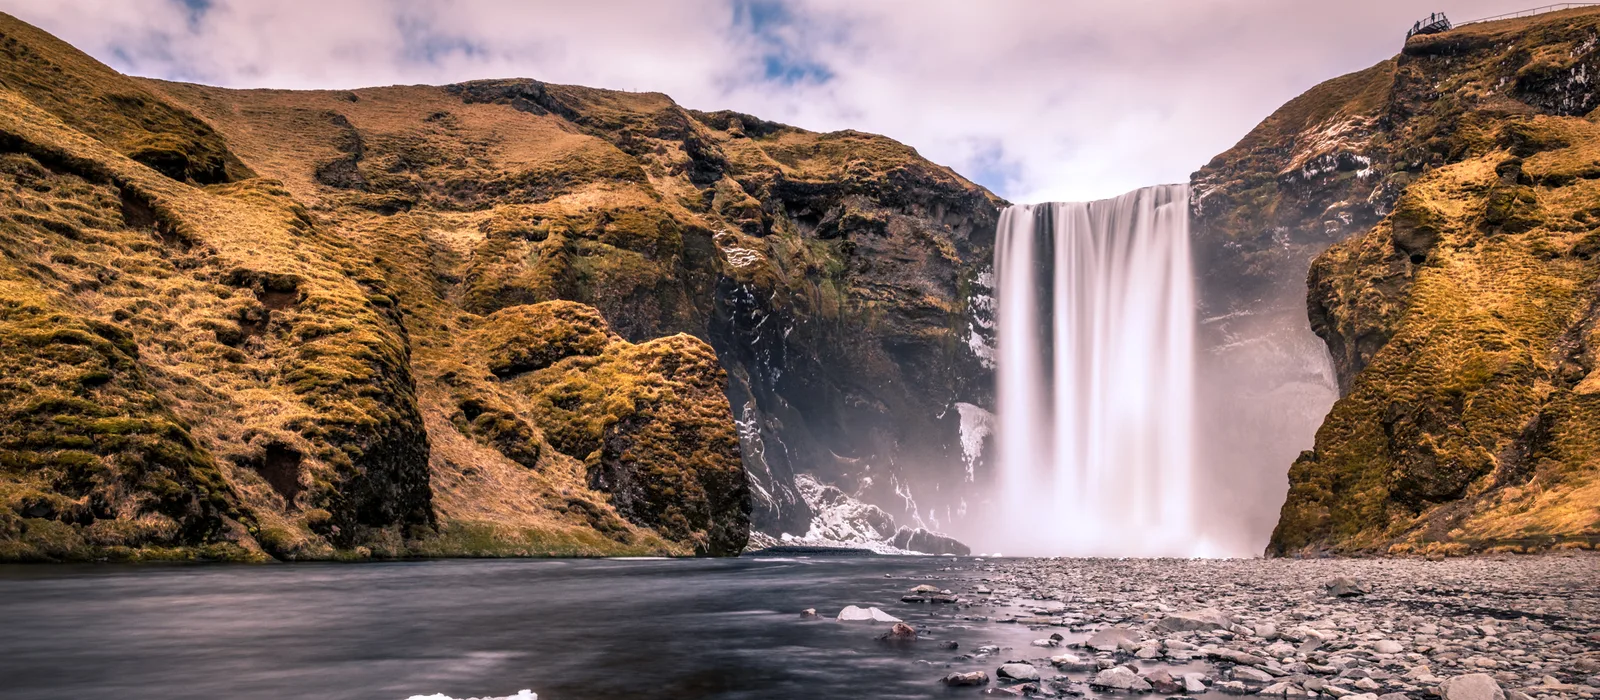
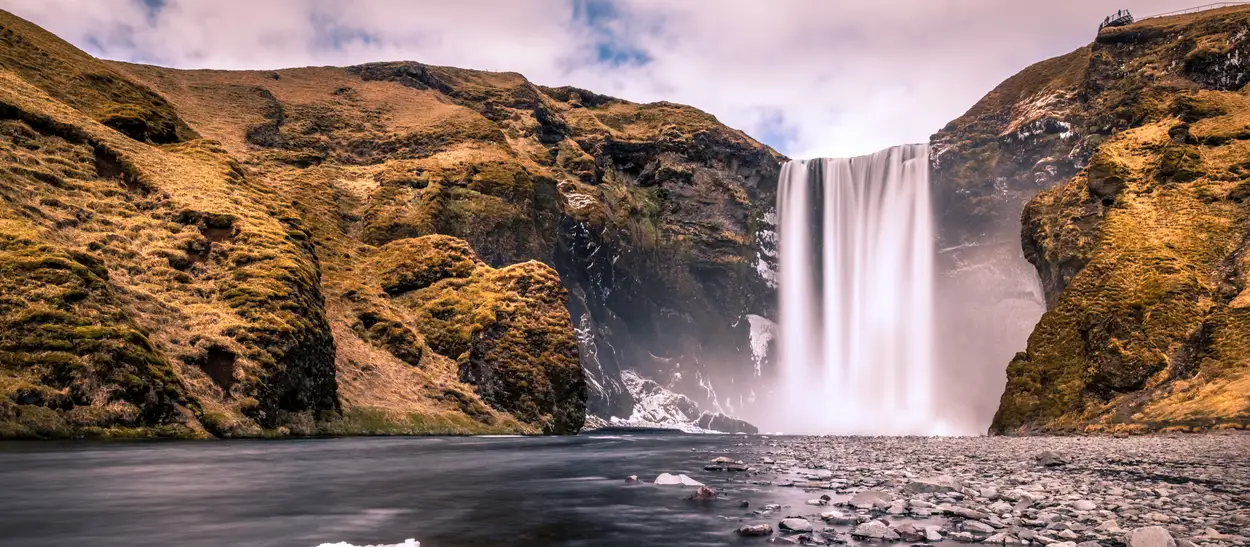
Fix audit issues on place.html: hero image size, CSS color consistency
Re-encode country-large.webp at 1250x547/q65 (~121 kB, was 269 kB) to
meet the 125 kB image budget, and convert the shadow/gradient colors
from rgba()/transparent to hex+alpha so the stylesheet uses a single
consistent color notation.

diff --git a/styles/place.css b/styles/place.css
@@ -9,7 +9,7 @@
   --font-heading: 'Poppins', sans-serif;
   --font-body: 'Mulish', sans-serif;
   --radius: 10px;
-  --shadow: 0 8px 24px rgba(0, 32, 63, 0.15);
+  --shadow: 0 8px 24px #00203f26;
   --spacing-sm: 0.75rem;
   --spacing-md: 1.5rem;
   --spacing-lg: 3rem;
@@ -80,7 +80,7 @@ img {
   position: absolute;
   inset: auto 0 0 0;
   padding: var(--spacing-md);
-  background: linear-gradient(to top, rgba(0, 32, 63, 0.85), transparent);
+  background: linear-gradient(to top, #00203fd9, #00203f00);
   color: var(--color-surface);
 }
 
